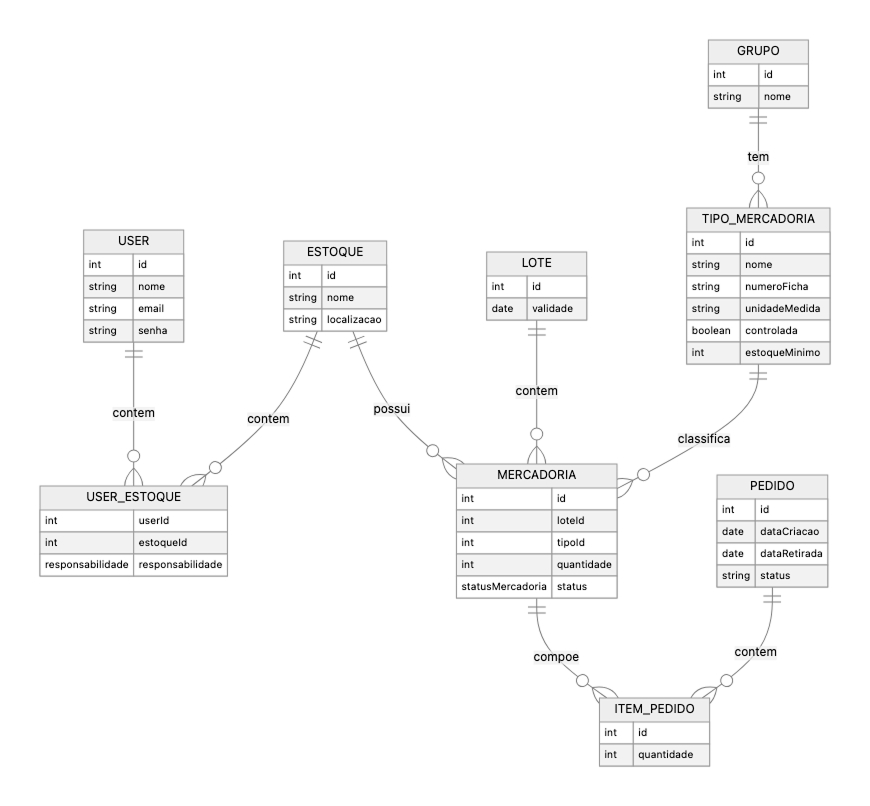
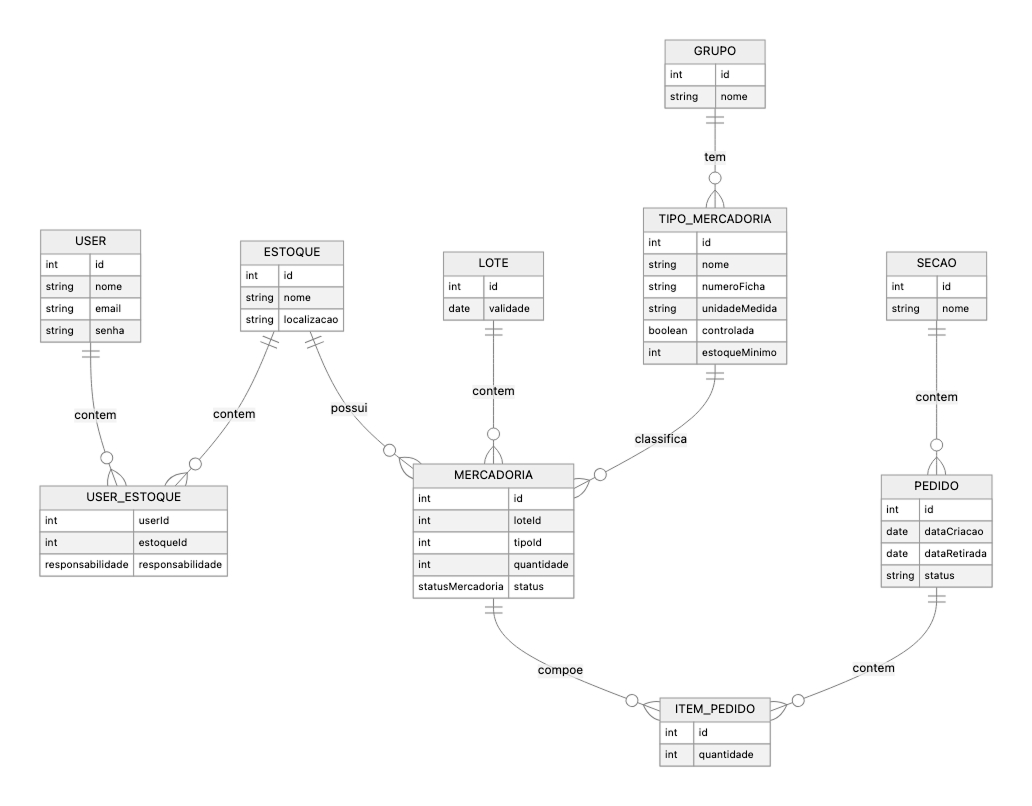
atualizado modelo de dados e backlog da sprint 1

diff --git a/sprints/sprint01/sprint01.md b/sprints/sprint01/sprint01.md
@@ -4,11 +4,11 @@
   <tbody>
     <tr>
       <td><strong>Capacidade estimada da Equipe por</strong></td>
-      <td>46 Story Points</td>
+      <td>51 Story Points</td>
     </tr>
     <tr>
       <td><strong>Meta da Sprint</strong></td>
-      <td>User Stories de rank 1 e rank 10 (total de 46 Story
+      <td>User Stories de rank 1 e rank 11 (total de 51 Story
 Points)</td>
     </tr>
     <tr>
@@ -84,8 +84,14 @@ Points)</td>
       <td>O sistema deve gerar o QR Code e enviar para impressão.</td>
       <td>2</td>
     </tr>
+     <tr>
+    <td>10</td>
+      <td>Como administrador, quero cadastrar, editar, visualizar e excluir seções (instituições) e vincular cada pedido a uma seção, para organizar os pedidos por área/entidade e facilitar a gestão.</td>
+      <td>O sistema deve garantir que cada Pedido tenha uma Seção obrigatória, impedindo nomes vazios ou duplicados, bloqueando exclusões com pedidos vinculados, exibindo apenas Seções ativas no select.</td>
+      <td>5</td>
+    </tr>
     <tr>
-      <td>10</td>
+      <td>11</td>
       <td>Como administrador, quero editar as informações do produto, para corrigir erros ou atualizar valores.</td>
       <td>O sistema deve permitir edição de qualquer campo cadastrado do produto.</td>
       <td>3</td>

diff --git a/README.md b/README.md
@@ -1,4 +1,4 @@
-
+<h2 id='topo'><img src="media/banner_apresentacao.png"></h2>
 <div align="center">
 <a href="#descricao"> 🎯 Descrição do projeto </a> |
 <a href="#requisitos-funcionais"> 📚 Requisitos Funcionais </a> |
